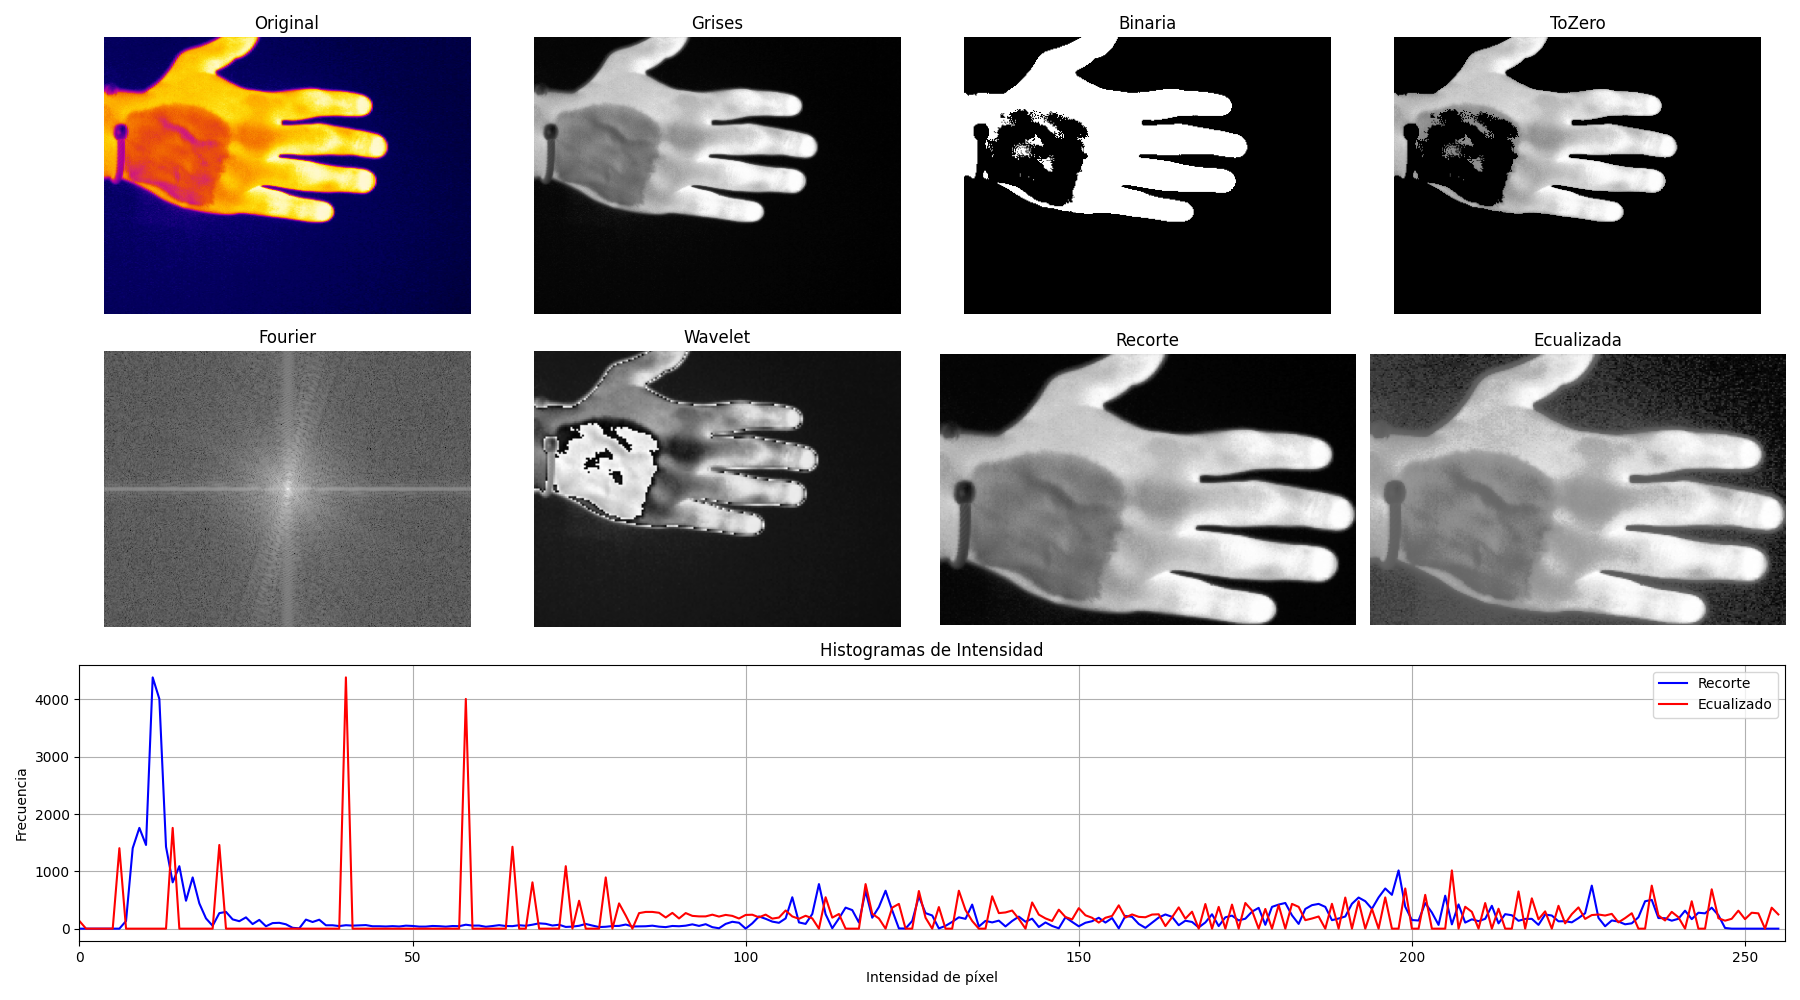
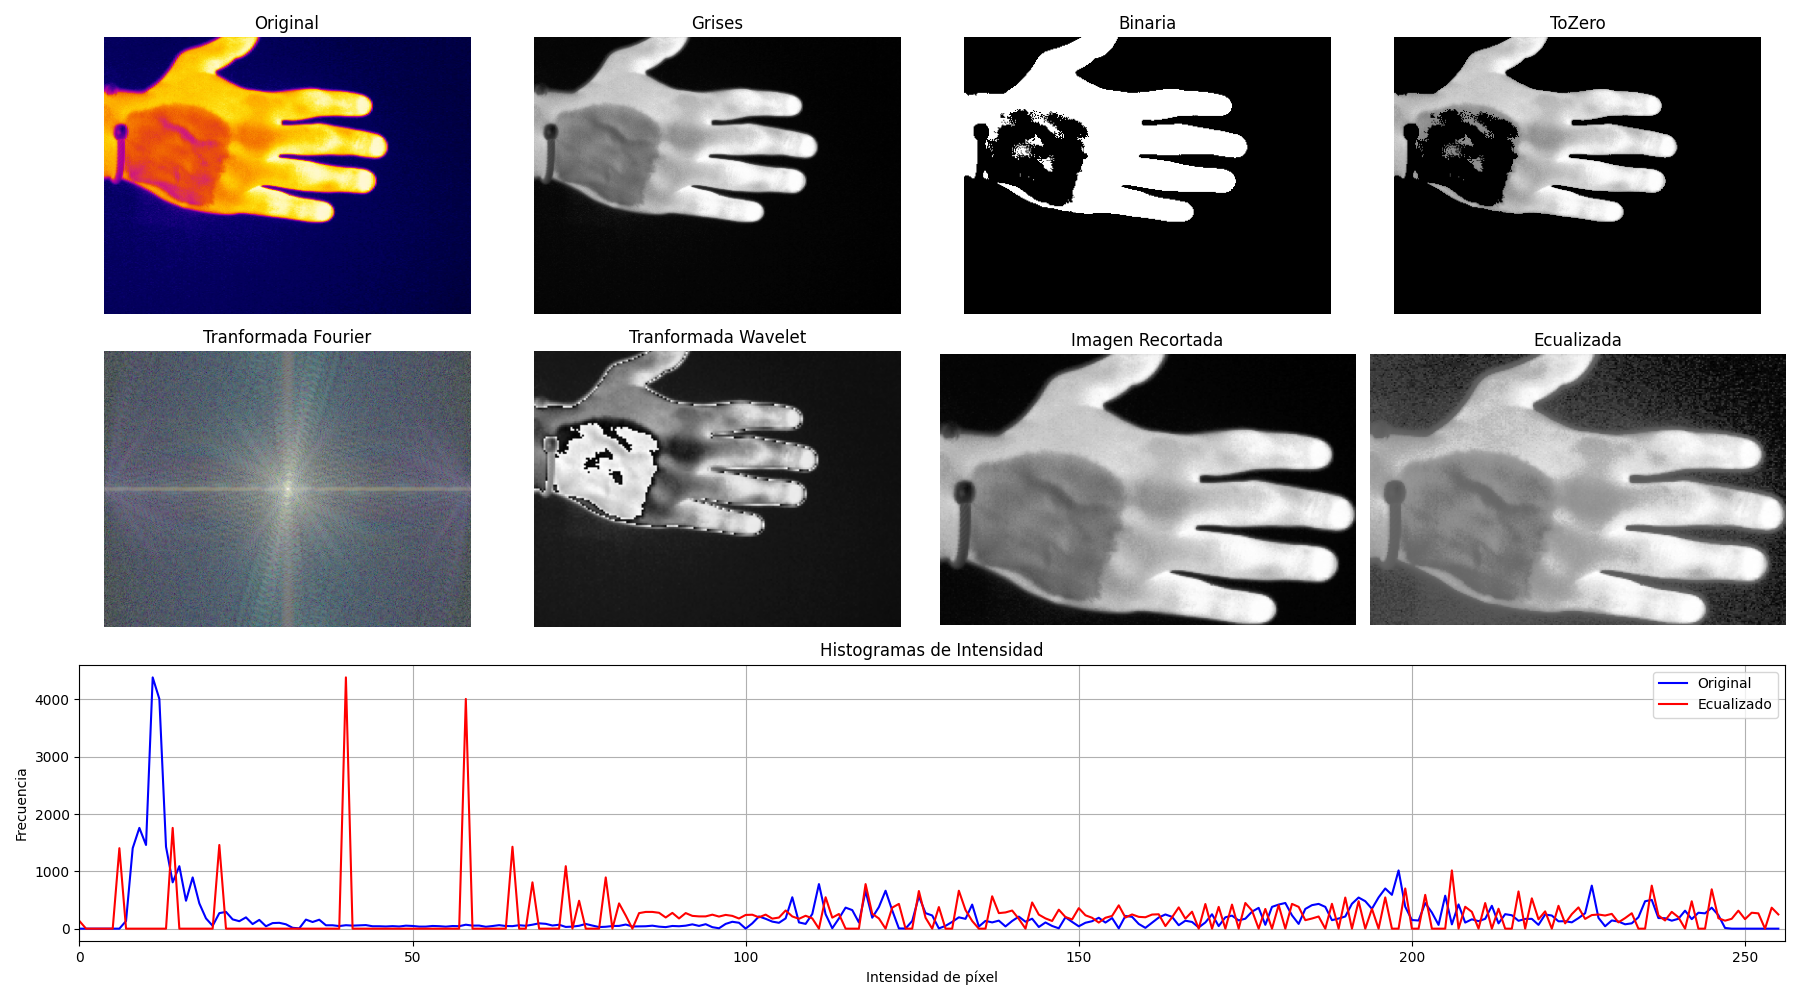
Ajustes

Changed region(s): [[0.0622, 0.31, 0.28, 0.62], [0.3422, 0.31, 0.4356, 0.341], [0.6222, 0.31, 0.6533, 0.341]]

diff --git a/Imagenes/main.py b/Imagenes/main.py
@@ -18,14 +18,45 @@ def convertir_tozero(imagen_gray):
     _, tozero = cv2.threshold(imagen_gray, 127, 255, cv2.THRESH_TOZERO)
     return tozero
 
-def transformada_fourier(imagen_gray):
-    dft = cv2.dft(np.float32(imagen_gray), flags=cv2.DFT_COMPLEX_OUTPUT)
-    dft_shift = np.fft.fftshift(dft)
-    magnitud = 20 * np.log(cv2.magnitude(dft_shift[:, :, 0], dft_shift[:, :, 1]) + 1)
-    
-    magnitud_norm = cv2.normalize(magnitud, None, 0, 255, cv2.NORM_MINMAX)
-    
-    return np.uint8(magnitud_norm)
+def transformada_fourier(imagen_bgr):
+    canales = cv2.split(imagen_bgr)  # Separar B, G, R
+    fourier_canales = []
+
+    for canal in canales:
+        # DFT
+        dft = cv2.dft(np.float32(canal), flags=cv2.DFT_COMPLEX_OUTPUT)
+        dft_shift = np.fft.fftshift(dft)
+        magnitud = cv2.magnitude(dft_shift[:, :, 0], dft_shift[:, :, 1])
+        magnitud_log = np.log1p(magnitud)
+        magnitud_norm = cv2.normalize(magnitud_log, None, 0, 255, cv2.NORM_MINMAX)
+        fourier_canales.append(np.uint8(magnitud_norm))
+
+    # Combinar canales de nuevo en una imagen BGR
+    return cv2.merge(fourier_canales)
+
+def reconstruccion_fourier_color(imagen_bgr):
+    canales = cv2.split(imagen_bgr)  # Separar B, G, R
+    reconstruidas = []
+
+    for canal in canales:
+        # DFT directa
+        dft = cv2.dft(np.float32(canal), flags=cv2.DFT_COMPLEX_OUTPUT)
+        dft_shift = np.fft.fftshift(dft)
+
+        # Volver a centrar las frecuencias (shift inverso)
+        f_ishift = np.fft.ifftshift(dft_shift)
+
+        # Transformada inversa
+        img_back = cv2.idft(f_ishift)
+        img_back_mag = cv2.magnitude(img_back[:, :, 0], img_back[:, :, 1])
+
+        # Normalizar para visualización
+        img_back_norm = cv2.normalize(img_back_mag, None, 0, 255, cv2.NORM_MINMAX)
+        reconstruidas.append(np.uint8(img_back_norm))
+
+    # Combinar canales nuevamente
+    return cv2.merge(reconstruidas)
+
 
 def transformada_wavelet(imagen_gray):
     import pywt
@@ -61,7 +92,7 @@ def mostrar_resultados(imagen_original, imagen_gray, binaria, tozero,
     gs = gridspec.GridSpec(3, 4)
 
     titulos = ["Original", "Grises", "Binaria", "ToZero",
-               "Fourier", "Wavelet", "Recorte", "Ecualizada"]
+               "Tranformada Fourier", "Tranformada Wavelet", "Imagen Recortada", "Ecualizada"]
     imagenes = [imagen_original, imagen_gray, binaria, tozero,
                 fourier, wavelet, imagen_crop, imagen_eq]
 
@@ -95,7 +126,7 @@ def guardar_resultados(nombre, imagen_original, imagen_gray, binaria, tozero,
     gs = gridspec.GridSpec(3, 4)  # 3 filas, 4 columnas
 
     titulos = ["Original", "Grises", "Binaria", "ToZero",
-               "Fourier", "Wavelet", "Recorte", "Ecualizada"]
+               "Tranformada Fourier", "Tranformada Wavelet", "Imagen Recortada", "Ecualizada"]
     imagenes = [imagen_original, imagen_gray, binaria, tozero,
                 fourier, wavelet, imagen_crop, imagen_eq]
 

diff --git a/Imagenes/imagenes.py b/Imagenes/imagenes.py
@@ -26,7 +26,7 @@ for idx, ruta in enumerate(imagenes, start=1):
     imagen_gray = convertir_grises(imagen)
     imagen_bin = convertir_binaria(imagen_gray)
     imagen_tozero = convertir_tozero(imagen_gray)
-    imagen_fourier = transformada_fourier(imagen_gray)
+    imagen_fourier = transformada_fourier(imagen)
     imagen_wavelet = transformada_wavelet(imagen_gray)
 
     x, y, w, h = encontrar_roi(imagen_gray)
